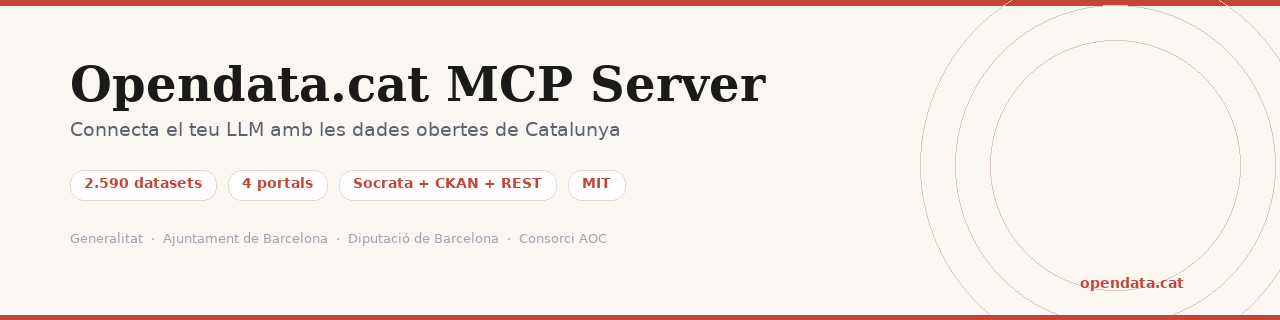
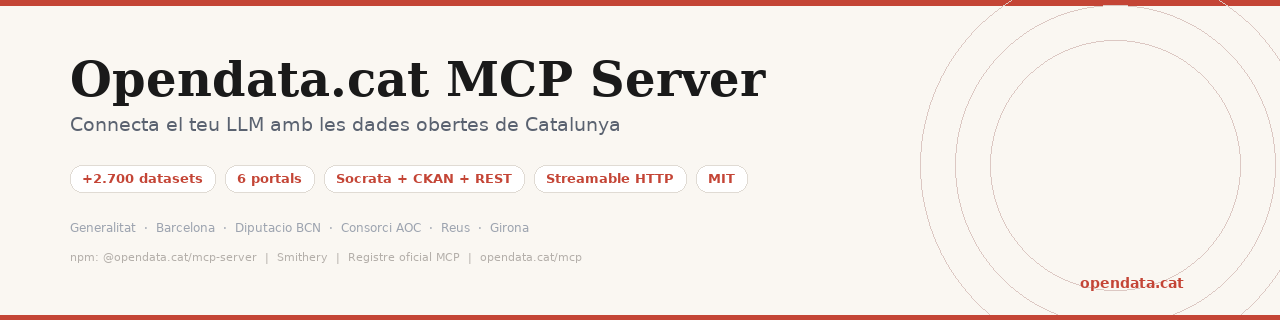
Afegeix Reus i Girona, actualitza a +2.700 datasets i 6 portals

diff --git a/README.md b/README.md
@@ -18,16 +18,18 @@ Un projecte d'**[opendata.cat](https://opendata.cat)** — associacio sense anim
 
 ## Portals disponibles
 
-| Portal | Datasets | Queryables | APIs |
-|--------|----------|-----------|------|
-| [Generalitat de Catalunya](https://analisi.transparenciacatalunya.cat) | 1.058 | 1.058 | Socrata (SoQL) |
-| [Ajuntament de Barcelona](https://opendata-ajuntament.barcelona.cat) | 555 | 463 | CKAN datastore |
-| [Diputacio de Barcelona](https://dadesobertes.diba.cat) | 90 | 32 | REST + JSON:API (CIDO) |
-| [Consorci AOC](https://dadesobertes.seu-e.cat) | ~893 | ~893 | CKAN datastore |
+| Portal | Datasets | APIs |
+|--------|----------|------|
+| [Generalitat de Catalunya](https://analisi.transparenciacatalunya.cat) | 1.058 | Socrata (SoQL) |
+| [Ajuntament de Barcelona](https://opendata-ajuntament.barcelona.cat) | 555 | CKAN datastore |
+| [Diputacio de Barcelona](https://dadesobertes.diba.cat) | 90 | REST + JSON:API (CIDO) |
+| [Consorci AOC](https://dadesobertes.seu-e.cat) | ~893 | CKAN datastore |
+| [Ajuntament de Reus](https://opendata.reus.cat) | 119 | CKAN datastore |
+| [Ajuntament de Girona](https://www.girona.cat/opendata/) | 53 | CKAN datastore |
 
 El Consorci AOC inclou datasets de les **diputacions de Tarragona, Girona i Lleida**, ajuntaments, consells comarcals i altres organismes publics catalans.
 
-**~2.400 datasets queryables** amb filtres, cerca i paginacio. La resta ofereix descarrega directa de fitxers.
+**+2.700 datasets** de 6 portals. La majoria queryables amb filtres, cerca i paginacio.
 
 El cataleg s'actualitza automaticament cada setmana. Cada endpoint es valida per assegurar que funciona.
 